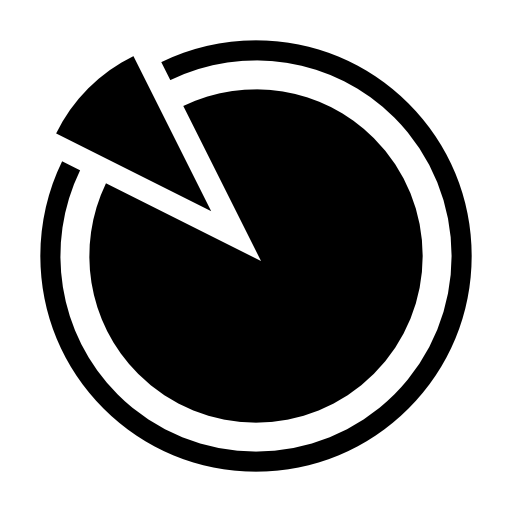
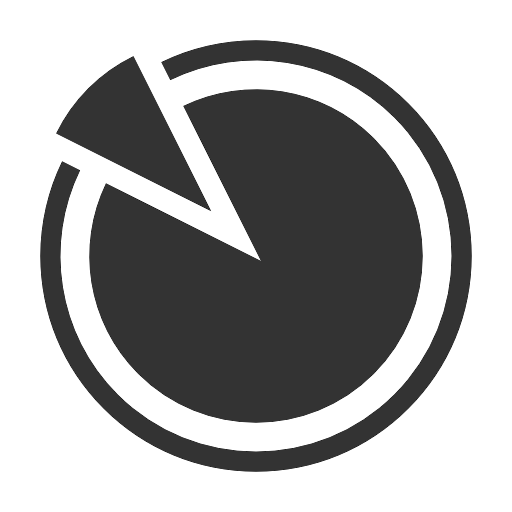
commit ajout transitions nav + modif img

diff --git a/index.html b/index.html
@@ -16,16 +16,16 @@
 		<header class="header-main">
 			<nav>
 				<ul>
-					<li>A propos de nous</li>
-					<li>Section 1</li>
-					<li>Section 2</li>
-					<li>Section 3</li>
-					<li>Section 4</li>
+					<li><a href="#about">A propos de nous</a></li>
+					<li>Logement</li>
+					<li>Transports</li>
+					<li>Alimentation</li>
+					<li>Quotidien</li>
 					<li>Questionnaire</li>
 				</ul>
 			</nav>
 		</header>
-		<section class="about-section">
+		<section id="about" class="about-section">
 			<h2>Lorm Ipsum</h2>
 			<div>
 				<img src="assets/img/chart31.png" alt="icone">

diff --git a/assets/style/main.css b/assets/style/main.css
@@ -57,6 +57,9 @@ nav ul li {
  	color: #EEE;
 	background-color: #45BF55;
  	border-radius: 4px;
+    transition: background-color 5s ease 0s;
+    -webkit-transition: background-color 5s ease 0s;
+    -o-transition: background-color 5s ease 0s;
 }
 
 nav ul li a {
